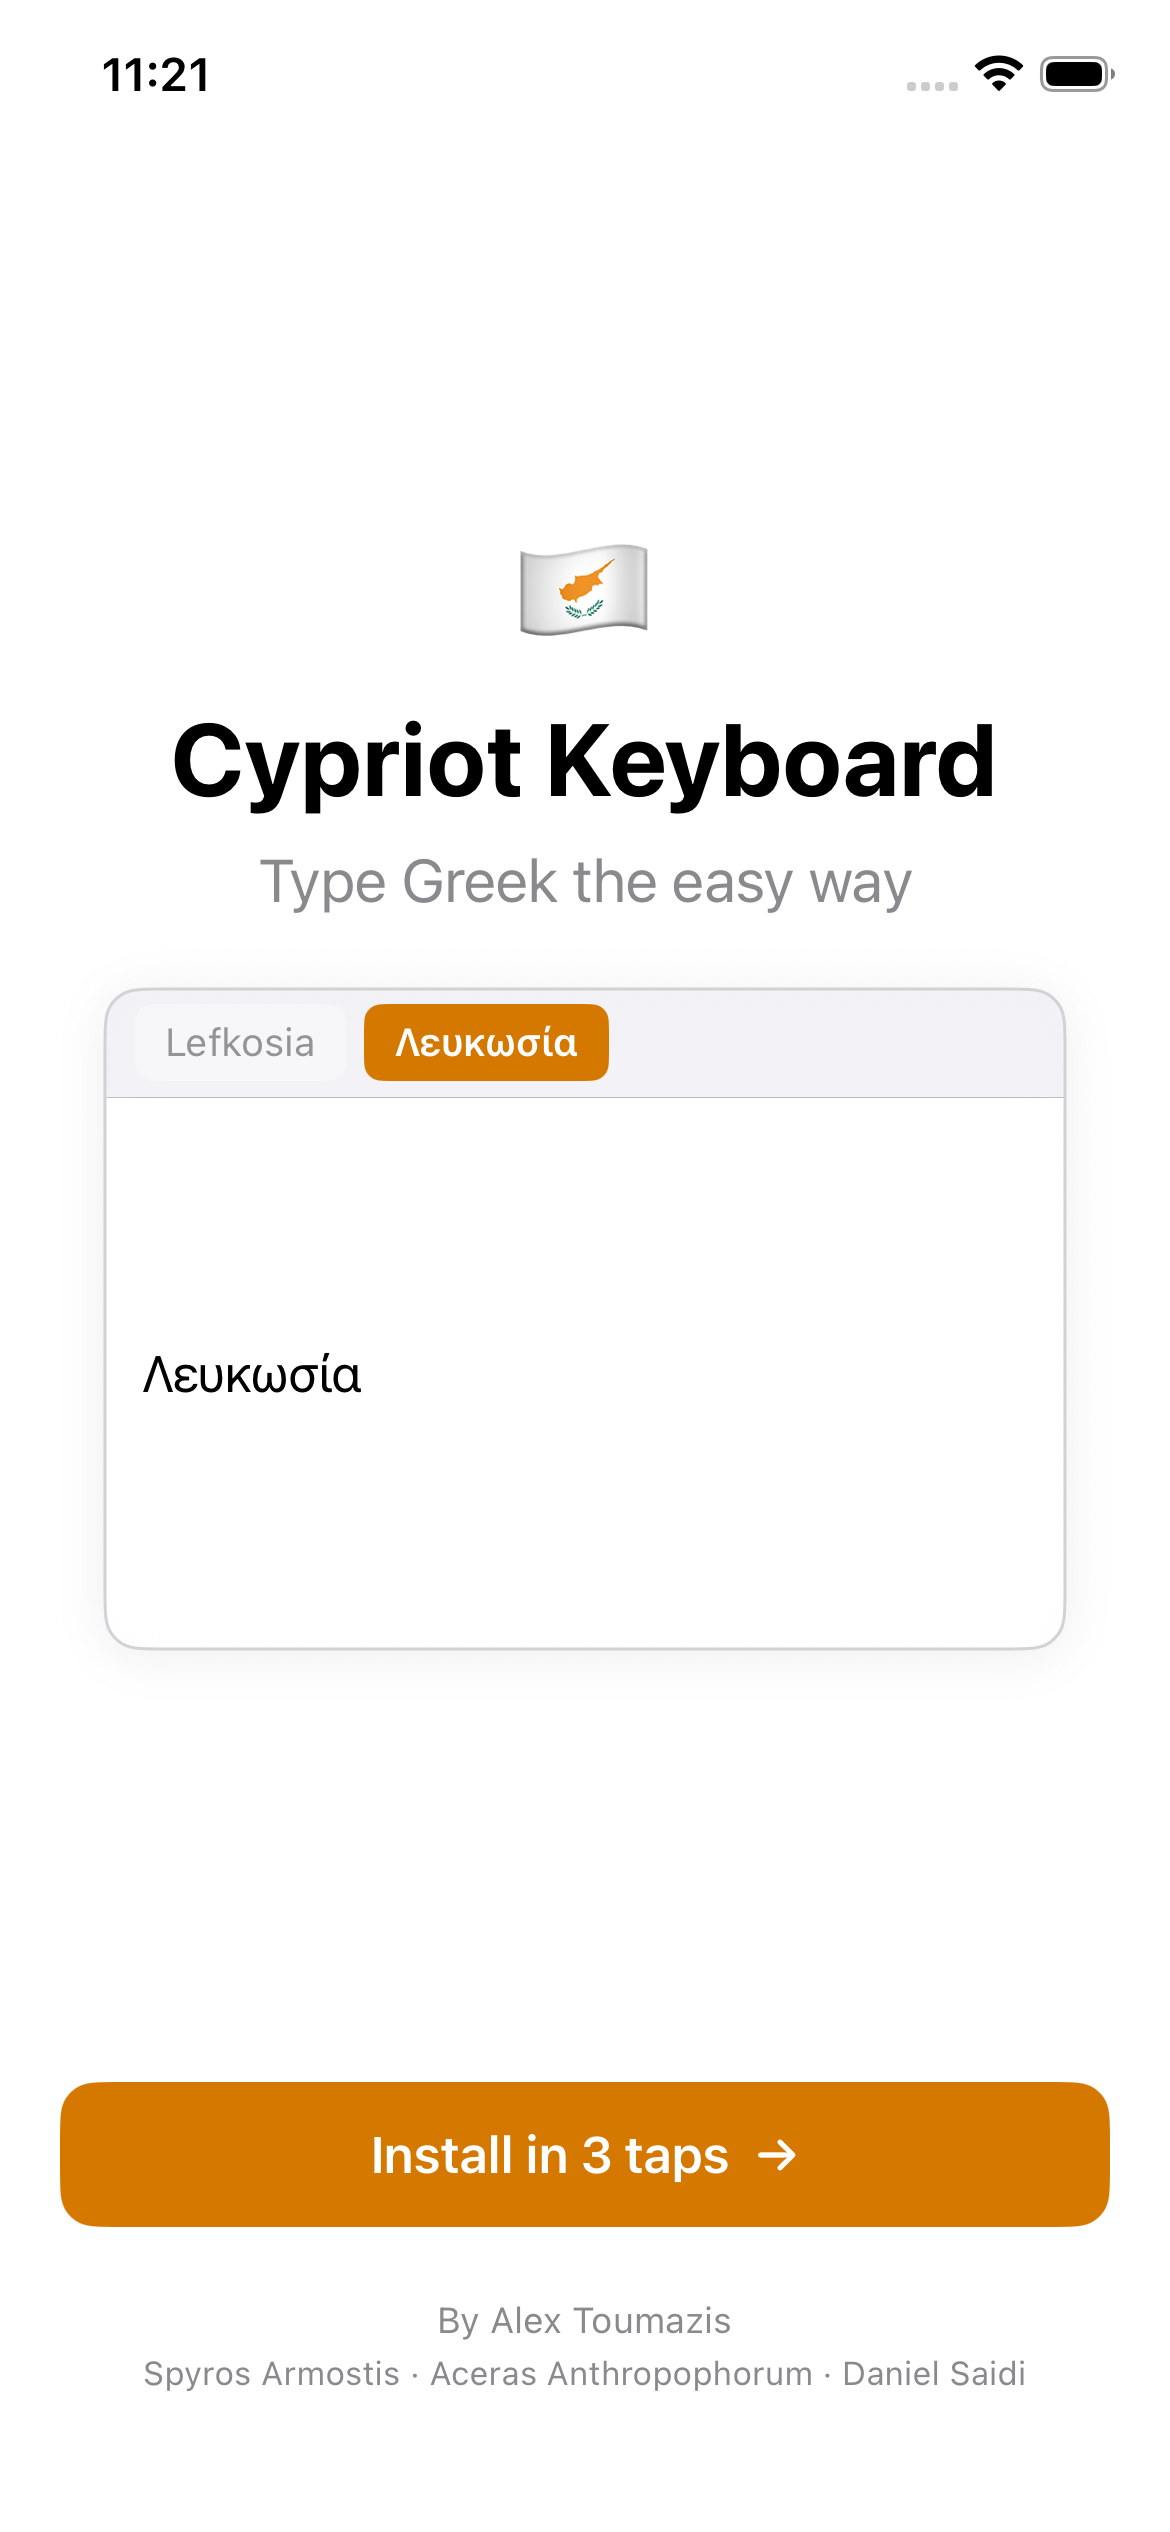
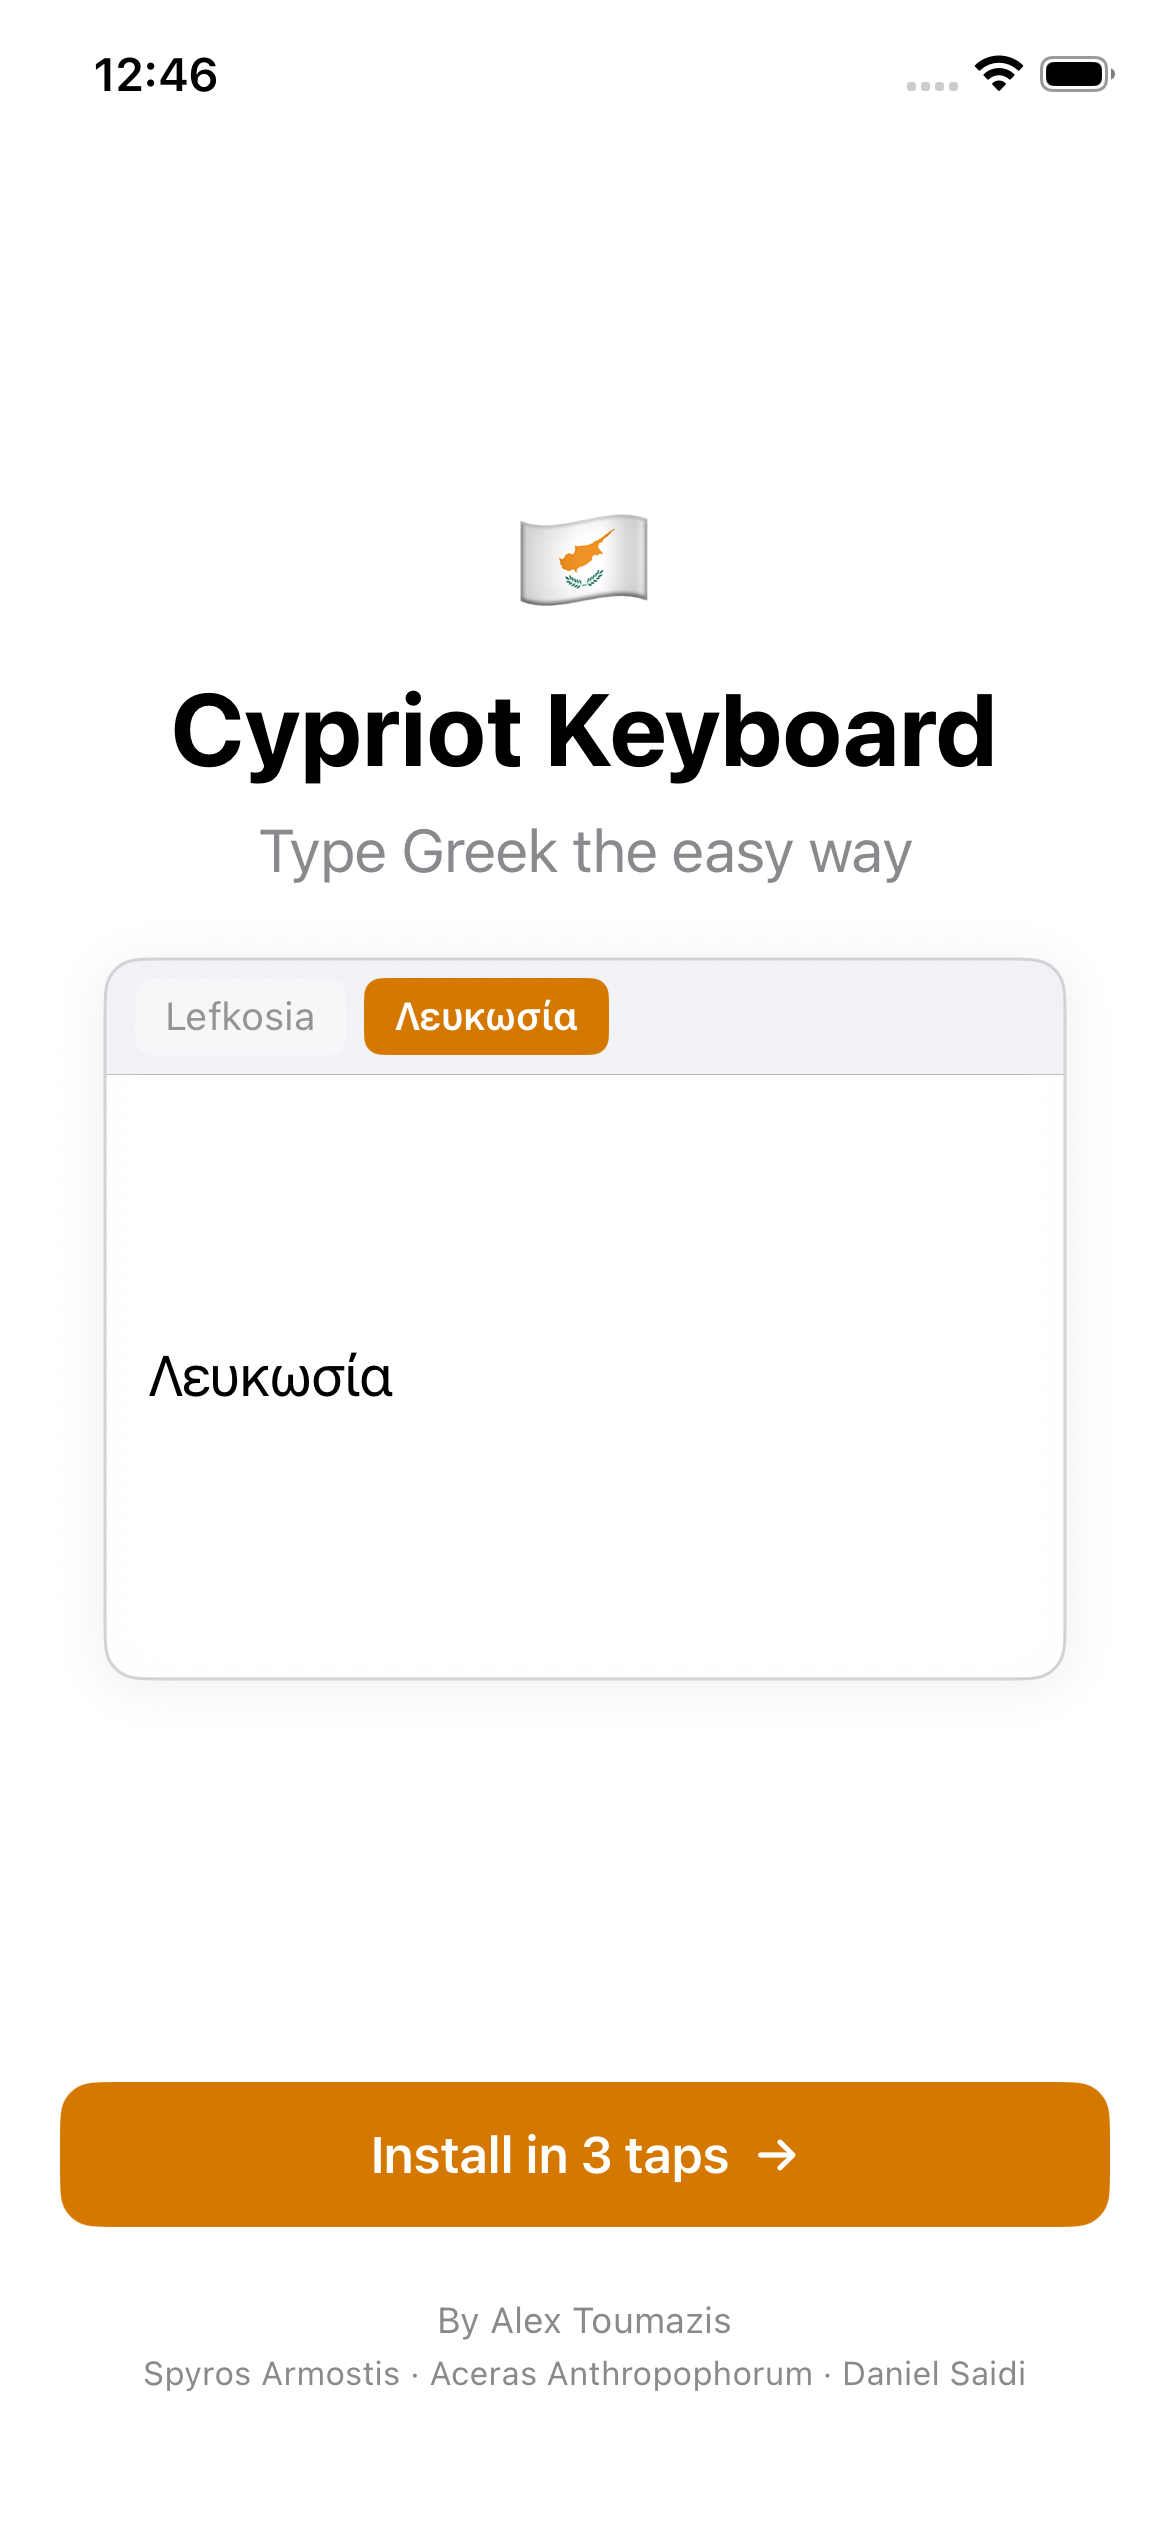
app-store: re-capture screenshots with new demo loop
Screenshots now reflect the updated DemoLoopView (commit 033fa2d on
the onboarding-redesign branch): taller fixed-height textfield, clean
opacity-stack cross-fade, and 3-phrase cycle.

Carousel-ready phrase variants on iPhone 17 Pro Max (en):
  - welcome-en-iphone17promax.png            Lefkosia → Λευκωσία (canonical)
  - welcome-en-iphone17promax-je.png         je → τζαι (Cypriot dialect)
  - welcome-en-iphone17promax-allous.png     pe je stous allous → πε τζαι στους άλλους

Removed the iPhone 17 Pro Max post-install captures — that sim was
erased to capture welcome on 6.9". README lists what's still missing.

Changed region(s): [[0.1231, 0.1872, 0.8615, 0.4368], [0.1231, 0.5304, 0.3385, 0.5616], [0.0923, 0.0, 0.1846, 0.0624]]

diff --git a/app-store/screenshots/raw/README.md b/app-store/screenshots/raw/README.md
@@ -25,18 +25,22 @@ App Store Connect groups by display size class. Apple downsamples for smaller cl
 
 ## Current contents (captured 2026-05-07)
 
-All captured at the "hold replaced" phase of the demo loop animation (clean frame, no transition overlap).
+All captured at the "hold replaced" phase of the demo loop animation (clean frame, no transition overlap, with the new opacity-stacking demo loop).
 
-| File                                       | State        | Locale | Device              |
-|--------------------------------------------|--------------|--------|---------------------|
-| `welcome-en-iphone17pro.png`               | Welcome      | en     | iPhone 17 Pro (6.3") |
-| `welcome-el-iphone17pro.png`               | Welcome      | el     | iPhone 17 Pro (6.3") |
-| `welcome-en-iphone16e.png`                 | Welcome      | en     | iPhone 16e (6.1")   |
-| `welcome-el-iphone16e.png`                 | Welcome      | el     | iPhone 16e (6.1")   |
-| `postinstall-en-iphone17promax.png`        | Post-install | en     | iPhone 17 Pro Max (6.9") |
-| `postinstall-el-iphone17promax.png`        | Post-install | el     | iPhone 17 Pro Max (6.9") |
-| `postinstall-en-iphone17.png`              | Post-install | en     | iPhone 17 (6.1")    |
-| `postinstall-el-iphone17.png`              | Post-install | el     | iPhone 17 (6.1")    |
+| File                                          | State        | Locale | Device                | Demo phrase shown |
+|-----------------------------------------------|--------------|--------|-----------------------|-------------------|
+| `welcome-en-iphone17promax.png`               | Welcome      | en     | iPhone 17 Pro Max (6.9") | Lefkosia → Λευκωσία |
+| `welcome-el-iphone17promax.png`               | Welcome      | el     | iPhone 17 Pro Max (6.9") | Lefkosia → Λευκωσία |
+| `welcome-en-iphone17promax-je.png`            | Welcome      | en     | iPhone 17 Pro Max (6.9") | je → τζαι |
+| `welcome-en-iphone17promax-allous.png`        | Welcome      | en     | iPhone 17 Pro Max (6.9") | pe je stous allous → πε τζαι στους άλλους |
+| `welcome-en-iphone17pro.png`                  | Welcome      | en     | iPhone 17 Pro (6.3")  | Lefkosia |
+| `welcome-el-iphone17pro.png`                  | Welcome      | el     | iPhone 17 Pro (6.3")  | Lefkosia |
+| `welcome-en-iphone16e.png`                    | Welcome      | en     | iPhone 16e (6.1")     | Lefkosia |
+| `welcome-el-iphone16e.png`                    | Welcome      | el     | iPhone 16e (6.1")     | Lefkosia |
+| `postinstall-en-iphone17.png`                 | Post-install | en     | iPhone 17 (6.1")      | Lefkosia |
+| `postinstall-el-iphone17.png`                 | Post-install | el     | iPhone 17 (6.1")      | Lefkosia |
+
+The 3 phrase variants on iPhone 17 Pro Max give you a carousel option for the App Store: lead with `Lefkosia` (canonical hook), follow with `je` (showcases Cypriot dialect), close with the full phrase (showcases multi-word handling).
 
 ## Capture command
 
@@ -60,6 +64,7 @@ To capture the **post-install** state, the Cypriot keyboard must be added in iOS
 
 ## Still missing
 
-- **Welcome** state on iPhone 17 Pro Max — that sim has the keyboard installed. Erase content first (Device menu → Erase All Content and Settings) or use a fresh sim of the same class.
+- **Post-install on iPhone 17 Pro Max (6.9")** — that sim was erased to capture welcome state. Re-add the Cypriot keyboard in iOS Settings on it (Settings → General → Keyboard → Keyboards → Add → Κυπριακά), then re-launch and capture.
 - **iPad Pro 13"** captures — both states. Universal app supports iPad; Apple requires at least one iPad screenshot.
 - **Install sheet open** state — needs a tap mid-launch. Easiest by hand in the simulator: launch app, tap "Install in 3 taps" CTA, then `xcrun simctl io booted screenshot ...` from another terminal.
+- **el (Cypriot dialect) variants of the phrase carousel** — only `Lefkosia` was captured in el. The `je` and `allous` variants on iPhone 17 Pro Max are en only.
